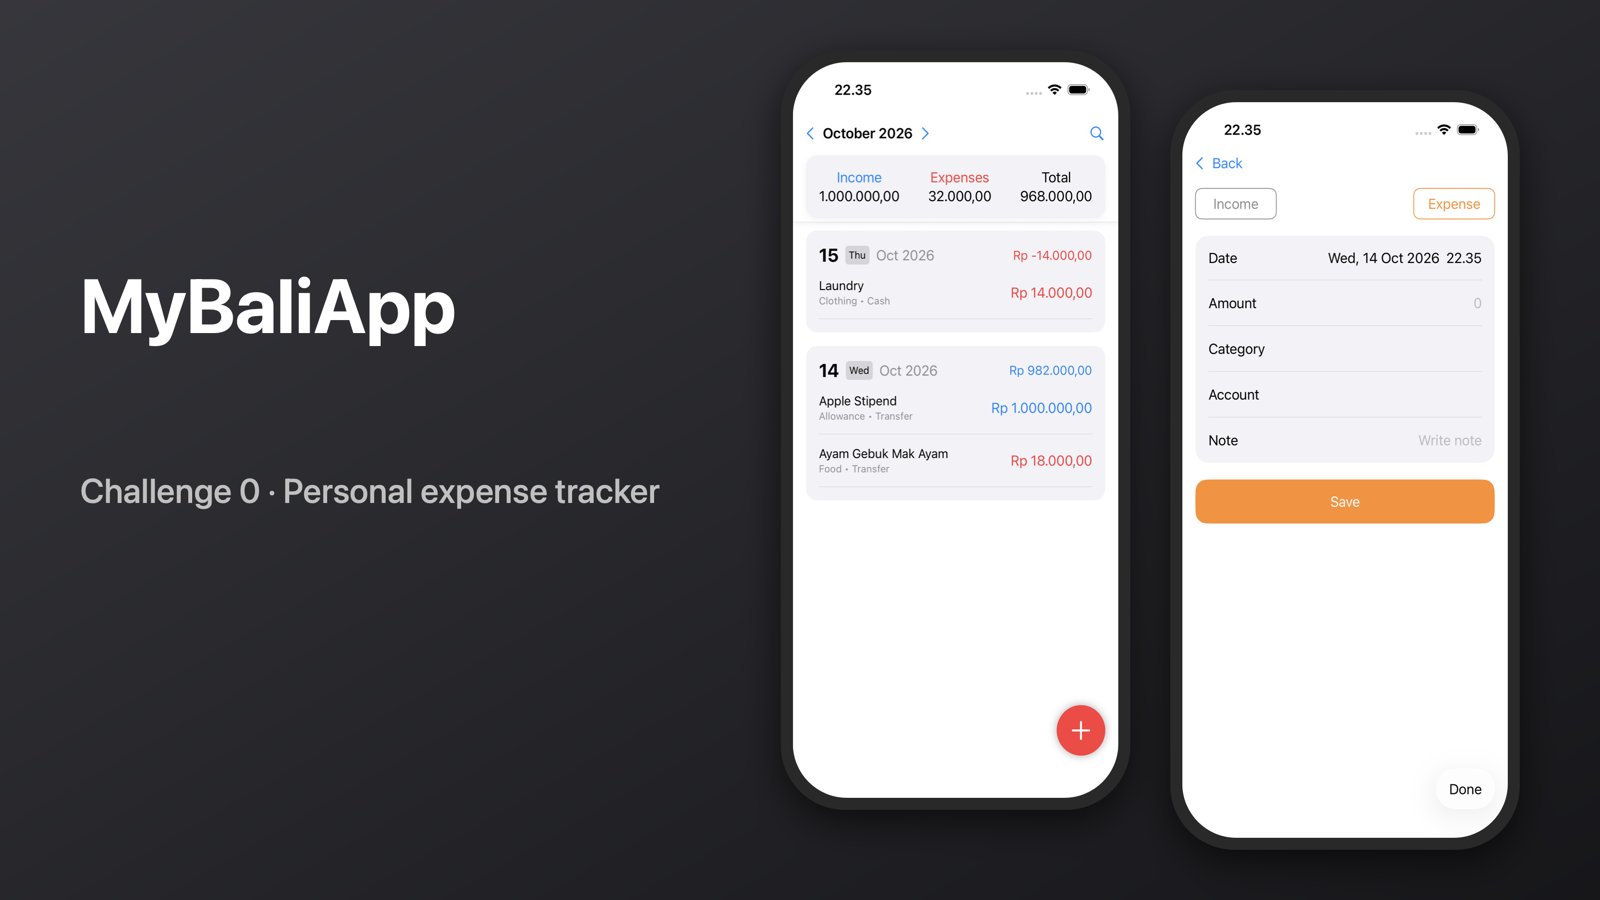
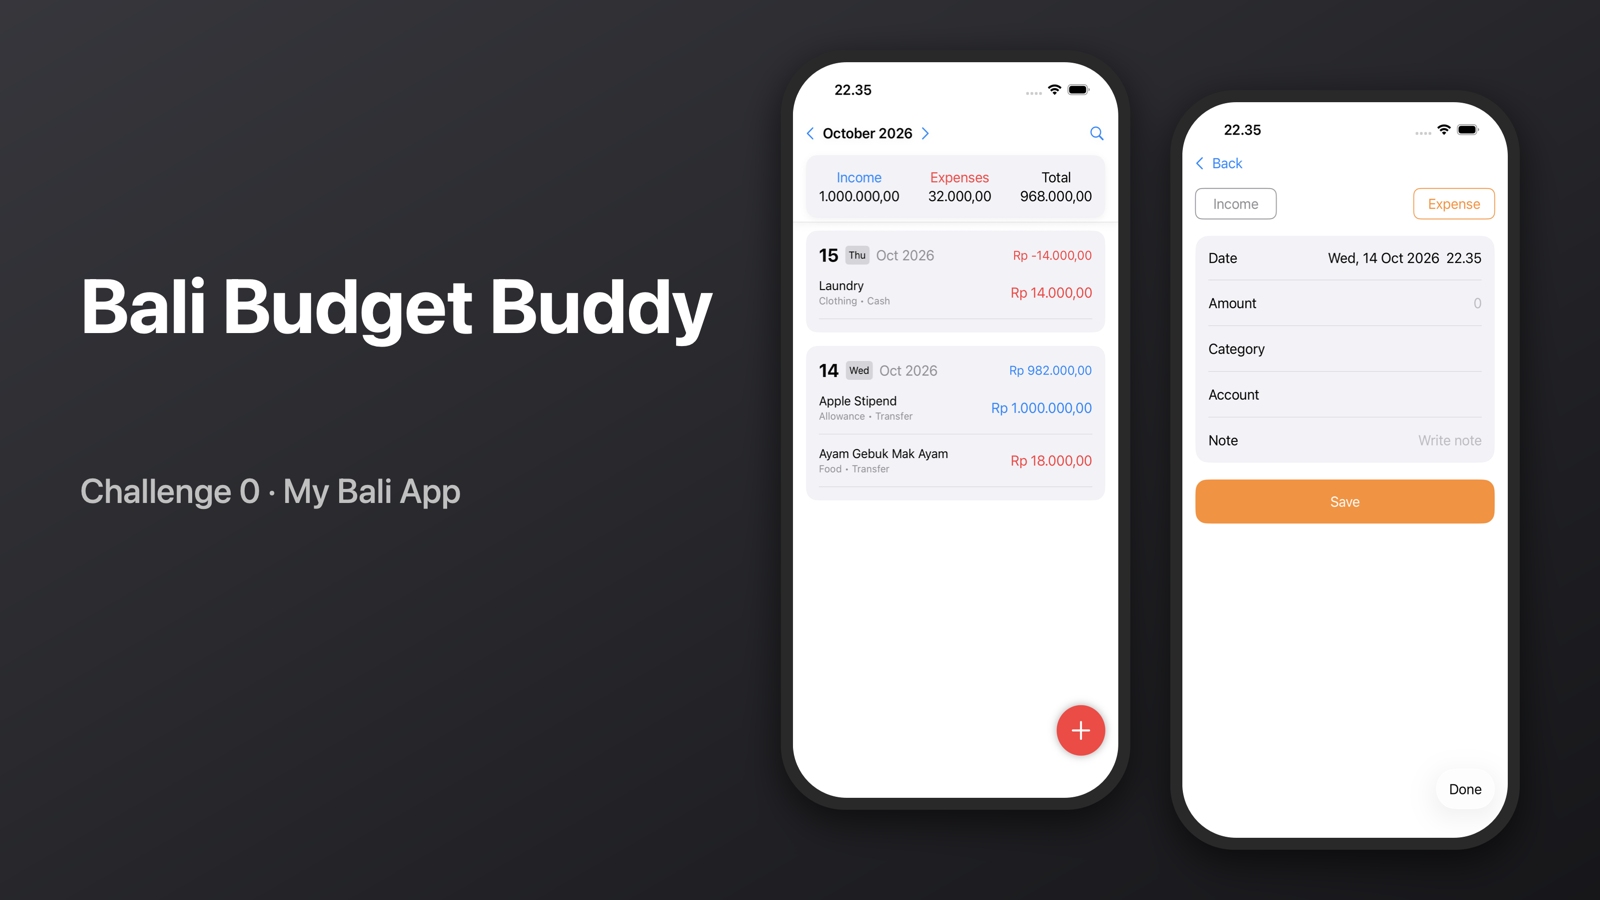
Rename Challenge 0 project to Bali Budget Buddy and refine description

Changed region(s): [[0.0625, 0.3111, 0.4688, 0.4044], [0.1562, 0.5289, 0.4062, 0.56]]

diff --git a/src/views/PortfolioView.vue b/src/views/PortfolioView.vue
@@ -113,9 +113,9 @@ export default {
       items: [
         {
           id: 1,
-          name: 'MyBaliApp',
+          name: 'Bali Budget Buddy',
           imageUrl: 'MyBaliApp',
-          status: `MyBaliApp is a personal expense tracker built as a solo project for Challenge 0 at Apple Developer Academy @ BINUS – Bali, answering the challenge to build a personal Bali Academy app that supports new life in Bali. The app helps track daily spending by letting users record income and expenses with a date, amount, category, account, and note, and view monthly income, expense, and total summaries.`,
+          status: `Bali Budget Buddy is a personal expense tracker built as a solo project for Challenge 0 (My Bali App) at Apple Developer Academy @ BINUS – Bali. The challenge explored how technology can help us navigate new experiences, by building a personal app that supports, organizes, tracks, or navigates something in our new life in Bali or the Academy. The problem I chose was tracking expenses, so the app lets users record income and expenses with a date, amount, category, account, and note, and view monthly income, expense, and total summaries.`,
           tech: 'Swift, SwiftUI, UIKit, Combine',
           github: 'https://github.com/StevanusFelixiano/MyBaliApp',
           demo: 'null'
